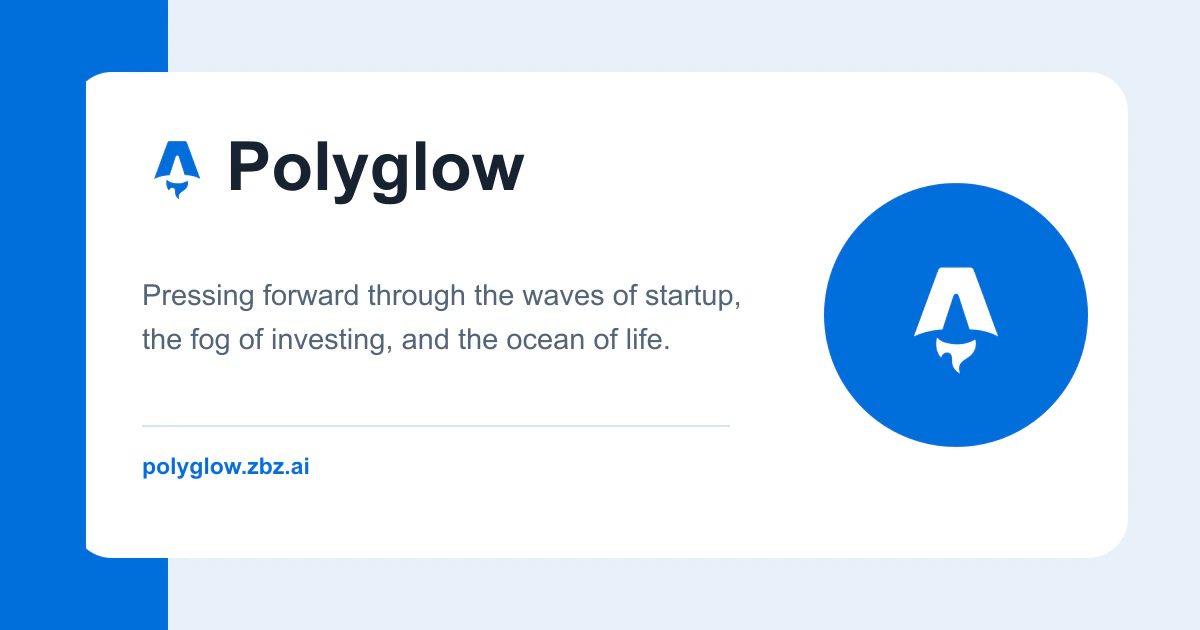
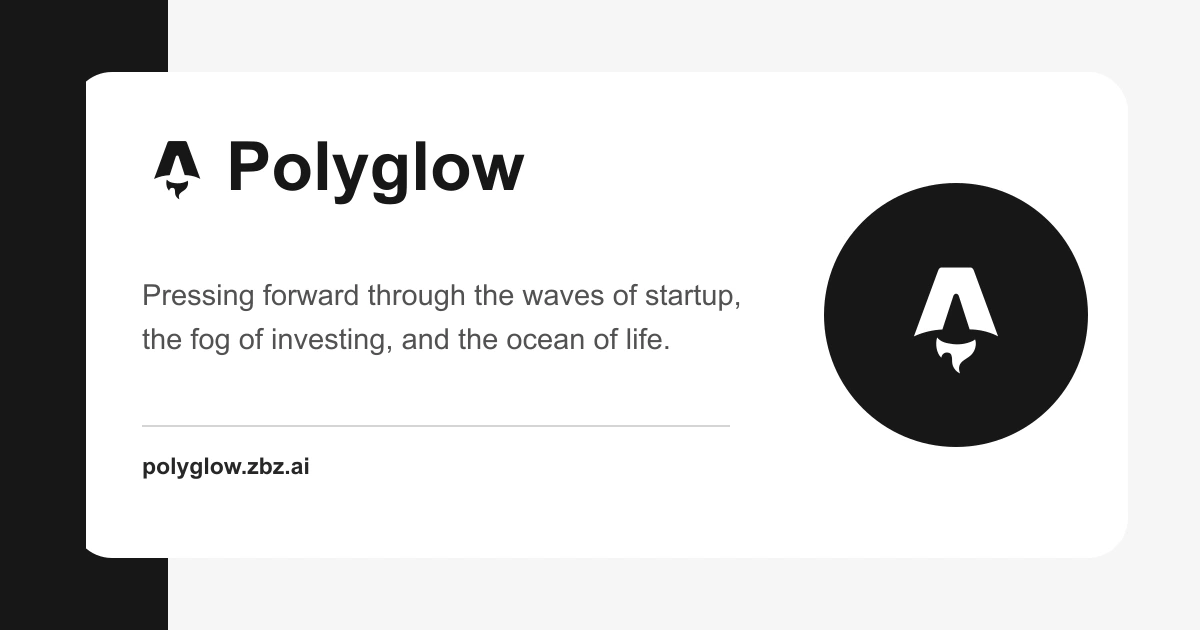
fix: restore Polyglow monochrome palette
Closes #135

diff --git a/src/styles/global.css b/src/styles/global.css
@@ -45,29 +45,29 @@
 }
 
 :root {
-  --background: oklch(0.9743 0.0068 247.89);
-  --foreground: oklch(0.2492 0.0327 256.31);
+  --background: oklch(1 0 0);
+  --foreground: oklch(0.145 0 0);
   --card: oklch(1 0 0);
-  --card-foreground: oklch(0.2492 0.0327 256.31);
+  --card-foreground: oklch(0.145 0 0);
   --popover: oklch(1 0 0);
-  --popover-foreground: oklch(0.2492 0.0327 256.31);
-  --primary: oklch(0.5505 0.1868 255.82);
-  --primary-foreground: oklch(1 0 0);
-  --secondary: oklch(0.9514 0.0138 247.97);
-  --secondary-foreground: oklch(0.2492 0.0327 256.31);
-  --muted: oklch(0.9514 0.0138 247.97);
-  --muted-foreground: oklch(0.4956 0.0376 249.98);
-  --accent: oklch(0.9334 0.0259 248.11);
-  --accent-foreground: oklch(0.426 0.1224 252.96);
+  --popover-foreground: oklch(0.145 0 0);
+  --primary: oklch(0.205 0 0);
+  --primary-foreground: oklch(0.985 0 0);
+  --secondary: oklch(0.97 0 0);
+  --secondary-foreground: oklch(0.205 0 0);
+  --muted: oklch(0.97 0 0);
+  --muted-foreground: oklch(0.556 0 0);
+  --accent: oklch(0.97 0 0);
+  --accent-foreground: oklch(0.205 0 0);
   --destructive: oklch(0.577 0.245 27.325);
-  --border: oklch(0.9134 0.0209 248.06);
-  --input: oklch(0.9134 0.0209 248.06);
-  --ring: oklch(0.5505 0.1868 255.82);
+  --border: oklch(0.922 0 0);
+  --input: oklch(0.922 0 0);
+  --ring: oklch(0.556 0 0);
   --radius: 0.625rem;
   --glass-border: transparent;
   --glass-border-light: transparent;
-  --glass-shadow: 0 8px 32px rgba(23, 34, 49, 0.1);
-  --glass-shadow-hover: 0 12px 40px rgba(23, 34, 49, 0.15);
+  --glass-shadow: 0 8px 32px rgba(0, 0, 0, 0.1);
+  --glass-shadow-hover: 0 12px 40px rgba(0, 0, 0, 0.15);
   --glass-content-bg: rgba(0, 0, 0, 0.4);
   --glass-content-bg-hover: rgba(0, 0, 0, 0.5);
   --post-card-content-bg: rgba(0, 0, 0, 0.26);
@@ -81,8 +81,8 @@
   --card-foreground: oklch(0.985 0 0);
   --popover: oklch(0.205 0 0);
   --popover-foreground: oklch(0.985 0 0);
-  --primary: oklch(0.7225 0.1482 252.28);
-  --primary-foreground: oklch(0.145 0 0);
+  --primary: oklch(0.922 0 0);
+  --primary-foreground: oklch(0.205 0 0);
   --secondary: oklch(0.269 0 0);
   --secondary-foreground: oklch(0.985 0 0);
   --muted: oklch(0.269 0 0);
@@ -92,7 +92,7 @@
   --destructive: oklch(0.704 0.191 22.216);
   --border: oklch(0.269 0 0);
   --input: oklch(0.269 0 0);
-  --ring: oklch(0.7225 0.1482 252.28);
+  --ring: oklch(0.708 0 0);
   --glass-border: transparent;
   --glass-border-light: transparent;
   --glass-shadow: 0 8px 32px rgba(0, 0, 0, 0.3);
@@ -191,7 +191,11 @@
 }
 
 .site-logo {
-  transition: opacity 150ms ease;
+  transition: filter 150ms ease;
+}
+
+.dark .site-logo {
+  filter: invert(1) brightness(1.08);
 }
 
 .nav-dropdown,

diff --git a/DESIGN.md b/DESIGN.md
@@ -1,41 +1,41 @@
 ---
 version: "alpha"
 name: "Polyglow"
-description: "A multilingual editorial Astro theme with a primary blue accent, cool blue-gray light surfaces, white cards, image-led glass cards, compact archives, dark mode, Astro view transitions, Pagefind search, and long-form typography."
+description: "A multilingual editorial Astro theme with a black, white, and gray interface, image-led glass cards, compact archives, dark mode, Astro view transitions, Pagefind search, and long-form typography."
 colors:
-  background: "#F3F7FB"
-  foreground: "#172231"
+  background: "#FFFFFF"
+  foreground: "#0A0A0A"
   card: "#FFFFFF"
-  cardForeground: "#172231"
+  cardForeground: "#0A0A0A"
   popover: "#FFFFFF"
-  popoverForeground: "#172231"
-  primary: "#006EDB"
-  primaryForeground: "#FFFFFF"
-  secondary: "#E8F0F8"
-  secondaryForeground: "#172231"
-  muted: "#E8F0F8"
-  mutedForeground: "#526477"
-  accent: "#DCEBFA"
-  accentForeground: "#0D4F8F"
+  popoverForeground: "#0A0A0A"
+  primary: "#171717"
+  primaryForeground: "#FAFAFA"
+  secondary: "#F5F5F5"
+  secondaryForeground: "#171717"
+  muted: "#F5F5F5"
+  mutedForeground: "#737373"
+  accent: "#F5F5F5"
+  accentForeground: "#171717"
   destructive: "#DC2626"
-  border: "#D8E4F0"
-  input: "#D8E4F0"
-  ring: "#006EDB"
+  border: "#E5E5E5"
+  input: "#E5E5E5"
+  ring: "#737373"
   darkBackground: "#0A0A0A"
   darkForeground: "#FAFAFA"
   darkCard: "#171717"
   darkPopover: "#171717"
-  darkPrimary: "#5AA9FF"
-  darkPrimaryForeground: "#0A0A0A"
+  darkPrimary: "#E5E5E5"
+  darkPrimaryForeground: "#171717"
   darkSecondary: "#262626"
   darkSecondaryForeground: "#FAFAFA"
   darkMuted: "#262626"
-  darkMutedForeground: "#A1A1A1"
+  darkMutedForeground: "#A3A3A3"
   darkAccent: "#262626"
   darkAccentForeground: "#FAFAFA"
   darkBorder: "#262626"
   darkInput: "#262626"
-  darkRing: "#5AA9FF"
+  darkRing: "#A3A3A3"
   glassOverlay: "#000000"
   glassOverlayStrong: "#262626"
   glassBorder: "#FFFFFF"
@@ -126,7 +126,7 @@ components:
     rounded: "{rounded.lg}"
     padding: "{spacing.lg}"
   taxonomy-card:
-    backgroundColor: "{colors.background}"
+    backgroundColor: "{colors.card}"
     textColor: "{colors.foreground}"
     rounded: "{rounded.lg}"
     padding: "{spacing.lg}"
@@ -144,7 +144,7 @@ components:
     rounded: "{rounded.md}"
     padding: "12px"
   search-input:
-    backgroundColor: "{colors.background}"
+    backgroundColor: "{colors.card}"
     textColor: "{colors.foreground}"
     rounded: "{rounded.xl}"
     padding: "{spacing.md}"
@@ -172,9 +172,9 @@ output. The live visual system is implemented in `src/styles/global.css`; this
 file records the same system as tokens and design rules so later UI work keeps
 the current theme intact.
 
-The current interface is content-first, image-led, and compact. The light theme
-uses the exact `#006EDB` brand blue, a cool blue-gray page background and white
-cards. It also uses strong real imagery, glass panels over post covers and
+The current interface is neutral, content-first, image-led, and compact. The
+light theme uses white reading surfaces, near-black text, and restrained gray
+structure. It also uses strong real imagery, glass panels over post covers and
 article heroes, quiet navigation, dense archive rows, readable prose, Pagefind
 search styling, Astro view transitions, and a light/dark theme switcher.
 
@@ -188,24 +188,24 @@ and dark values.
 
 ## Color System
 
-The palette is a cool editorial publishing palette:
+The interface palette is black, white, and gray:
 
 - `background` and `foreground` define the main reading surface.
 - `card`, `popover`, `secondary`, `muted`, and `accent` support cards,
   dropdowns, hover states, chips, search results, and low-emphasis UI.
 - `primary` and `primaryForeground` define high-emphasis actions, links,
-  current-location indicators and focus treatment. The light-theme primary is
-  the exact brand color `#006EDB`; dark mode uses a lighter blue interaction
-  step for contrast while the logo keeps the exact brand color.
+  current-location indicators and focus treatment through neutral contrast.
 - `border`, `input`, and `ring` define structure and focus affordances.
-- `destructive` is reserved for destructive or error states.
+- `destructive` is the only semantic hue and remains reserved for destructive
+  or error states; it is not a brand or navigation color.
 - `glassOverlay`, `glassOverlayStrong`, `glassBorder`, and
   `glassSurfaceLight` support post-card panels, article hero panels, dropdowns,
   and mobile navigation.
 
-The light page background is cool blue-gray and elevated cards remain white.
-Dark mode keeps the existing neutral hierarchy with darker surfaces and lighter
-text. Use the dark tokens as design references; runtime switching stays in CSS.
+The light page background and elevated cards remain white, separated by neutral
+borders, shadows, and spacing. Dark mode keeps the same neutral hierarchy with
+darker surfaces and lighter text. Use the dark tokens as design references;
+runtime switching stays in CSS.
 
 ## Typography
 
@@ -251,7 +251,7 @@ language, but the fixed header itself uses theme background and border tokens
 for legibility.
 
 Text cards and taxonomy cards stay quiet: white surfaces in light mode, small
-radius, thin cool border, and modest hover movement.
+radius, thin neutral border, and modest hover movement.
 
 Do not create cards inside cards. Do not turn full page sections into floating
 cards.
